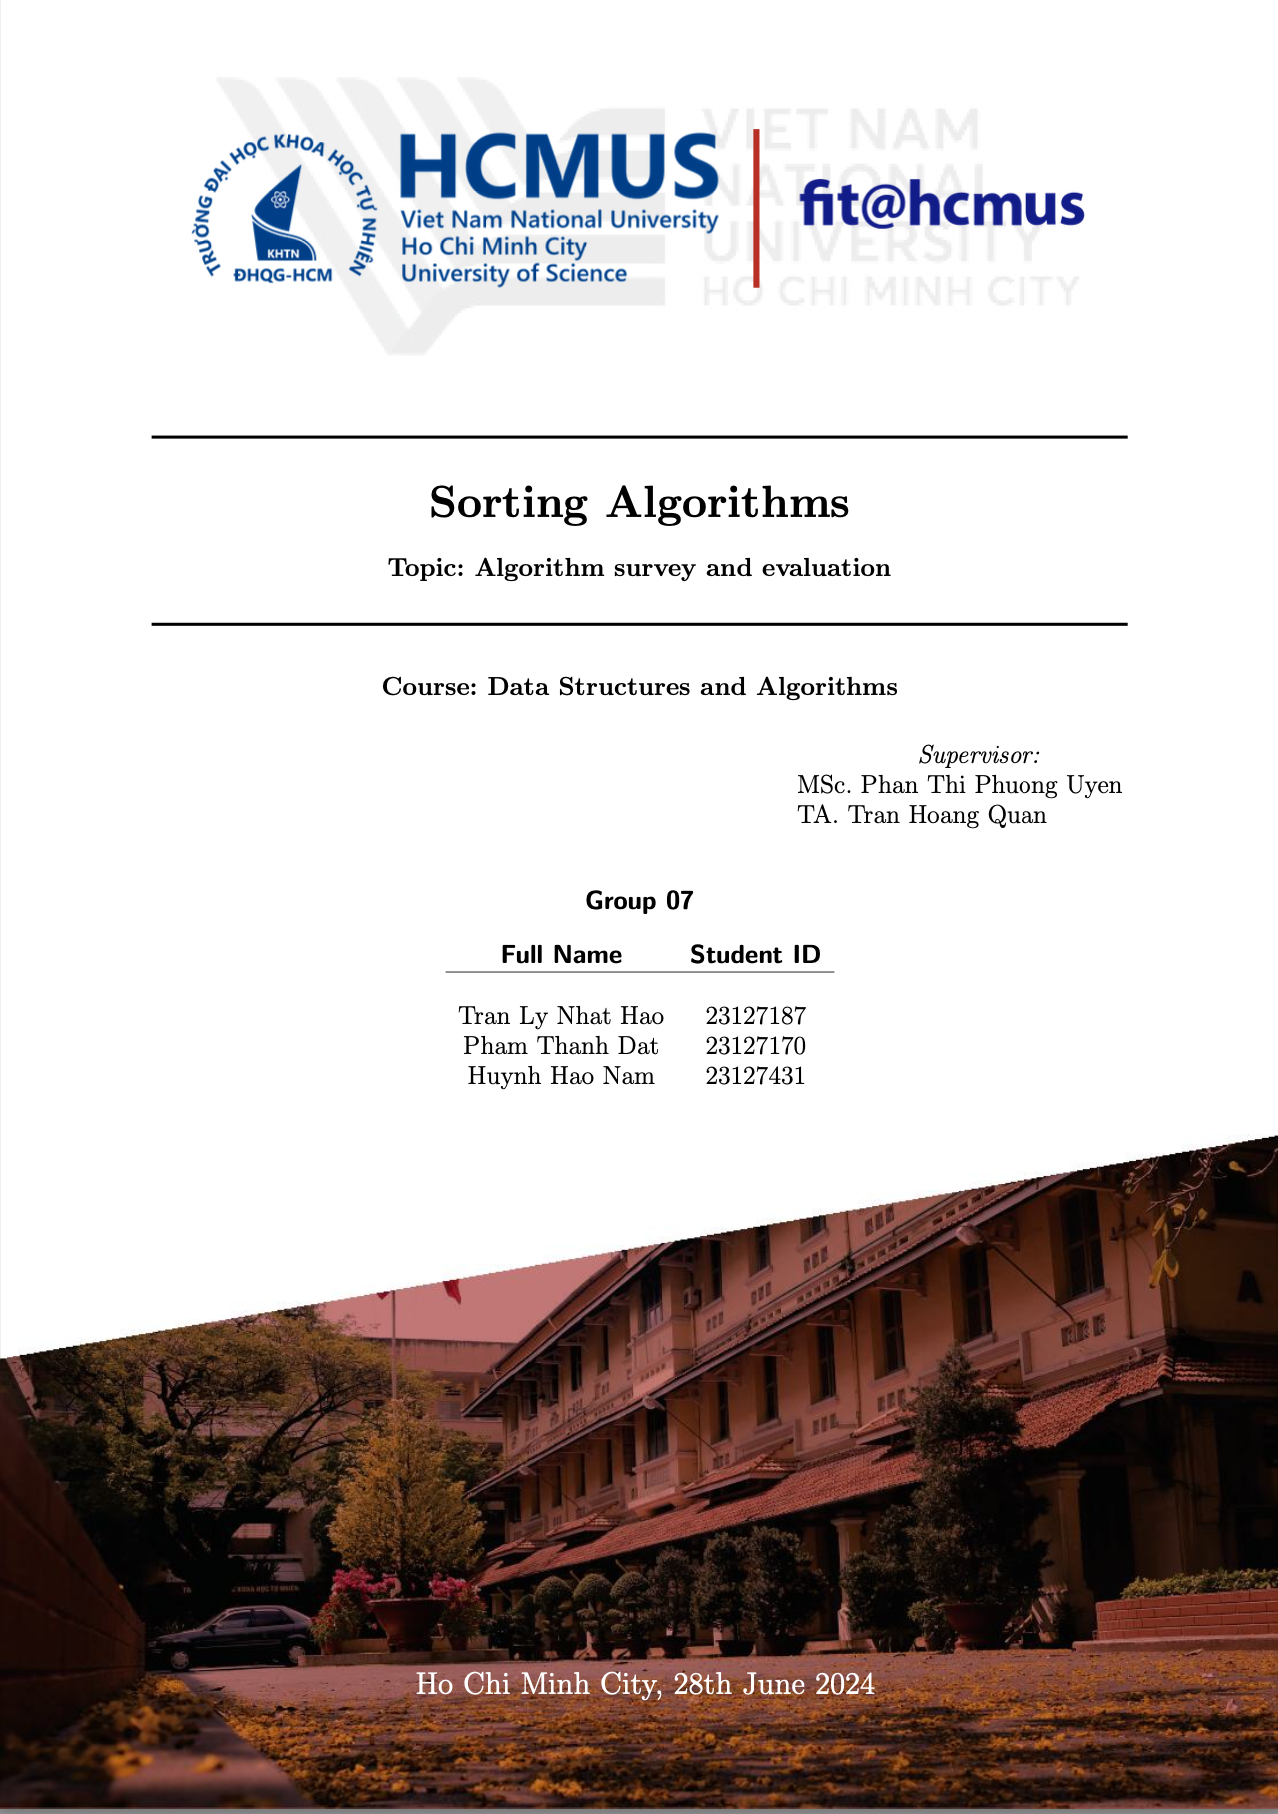
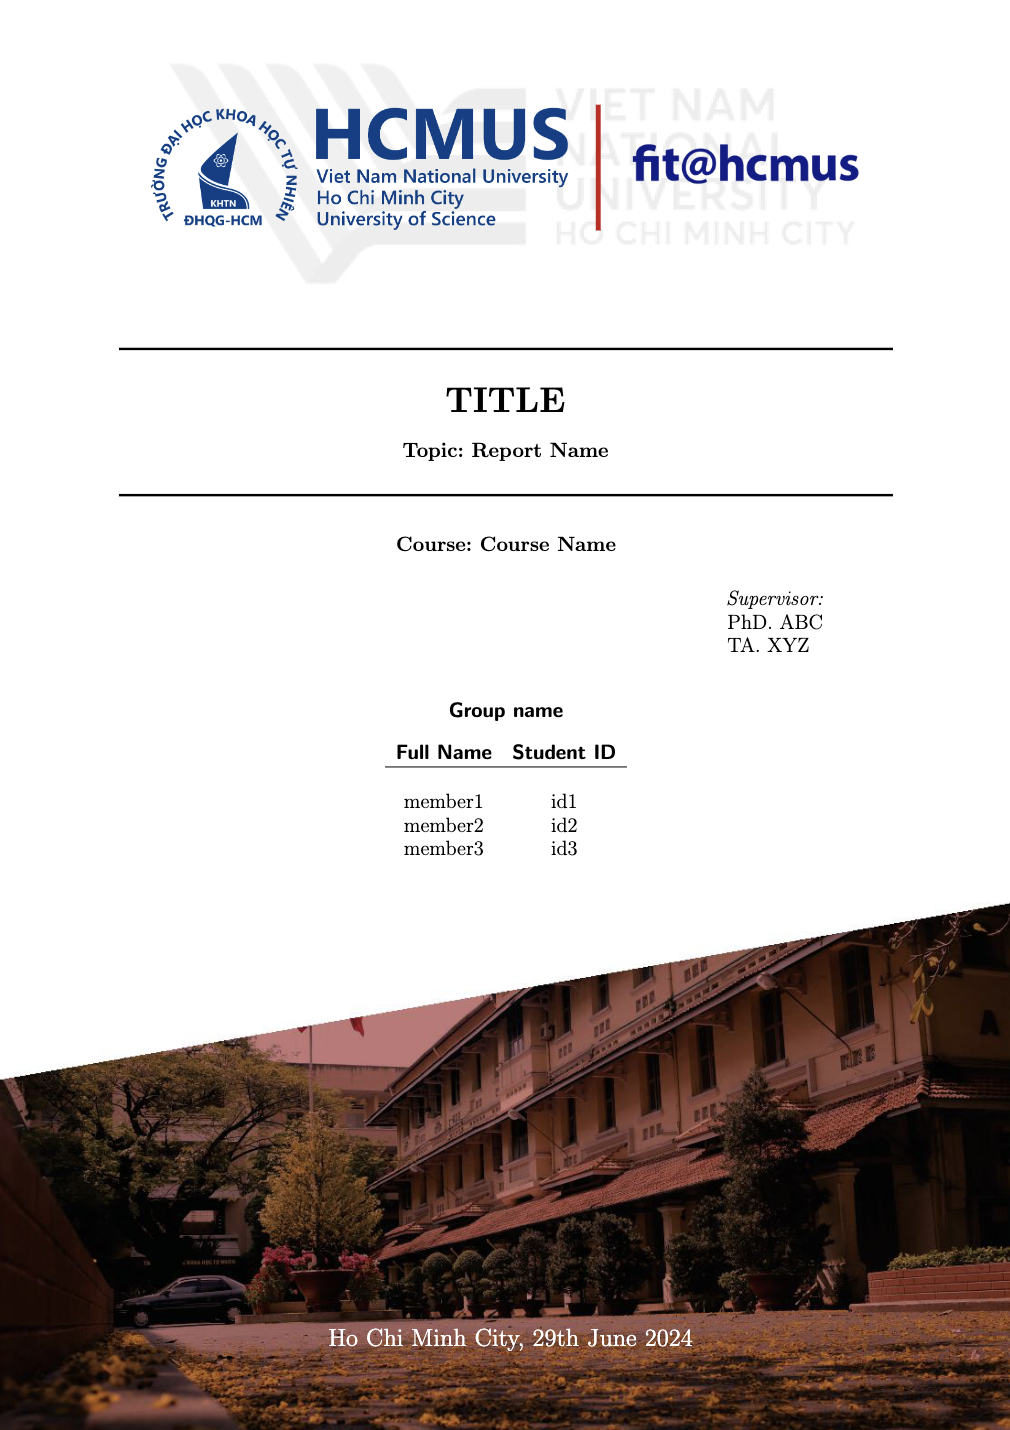
update

diff --git a/General/Settings.tex b/General/Settings.tex
@@ -1,14 +1,14 @@
 % Add your group number
 \newcommand\groupnumber{
-\textbf{Group 07}
+\textbf{Group name}
 }
 
 % Insert authors and student numbers here
 \newcommand\reportauthors{
 \\
-Tran Ly Nhat Hao & 23127187 \\
-Pham Thanh Dat & 23127170 \\
-Huynh Hao Nam & 23127431 \\
+member1 & id1 \\
+member2 & id2 \\
+member3 & id3 \\
 }
 
 % Add the name of your tutor
@@ -130,15 +130,15 @@ Ho Chi Minh City, \today
 % Disable indentation on new paragraphs
 \setlength{\parindent}{0pt}
 
-\newcommand{\coursename}{Data Structures and Algorithms}
-\newcommand{\reportname}{Algorithm survey and evaluation}
-\newcommand{\reporttitle}{Sorting Algorithms}
+\newcommand{\coursename}{course name}
+\newcommand{\reportname}{report name}
+\newcommand{\reporttitle}{title}
 
 % \newcommand{\studentname}{ \\ }
 \newcommand{\teachername}{%
-  \makebox[4.0cm][l]{MSc. Phan Thi Phuong Uyen}%
+  \makebox[4.0cm][l]{PhD. ABC}%
   \\
-  \makebox[4.0cm][l]{TA. Tran Hoang Quan}%
+  \makebox[4.0cm][l]{TA. XYZ}%
 }
 \newcommand{\leftfooter}{\LaTeX\ by \href{https://github.com/tranlynhathao}{tranlynhathao}}
 

diff --git a/General/Preamble.tex b/General/Preamble.tex
@@ -30,7 +30,7 @@
 \usepackage{multirow}
 \usepackage{sectsty}
 \subsubsectionfont{\normalfont\normalsize\bfseries}
-\usepackage{lscape} % hoặc \usepackage{pdflscape} nếu bạn muốn in ra PDF
+\usepackage{lscape}
 \usepackage{listings}
 \usepackage{microtype}
 \usepackage{tocloft}
